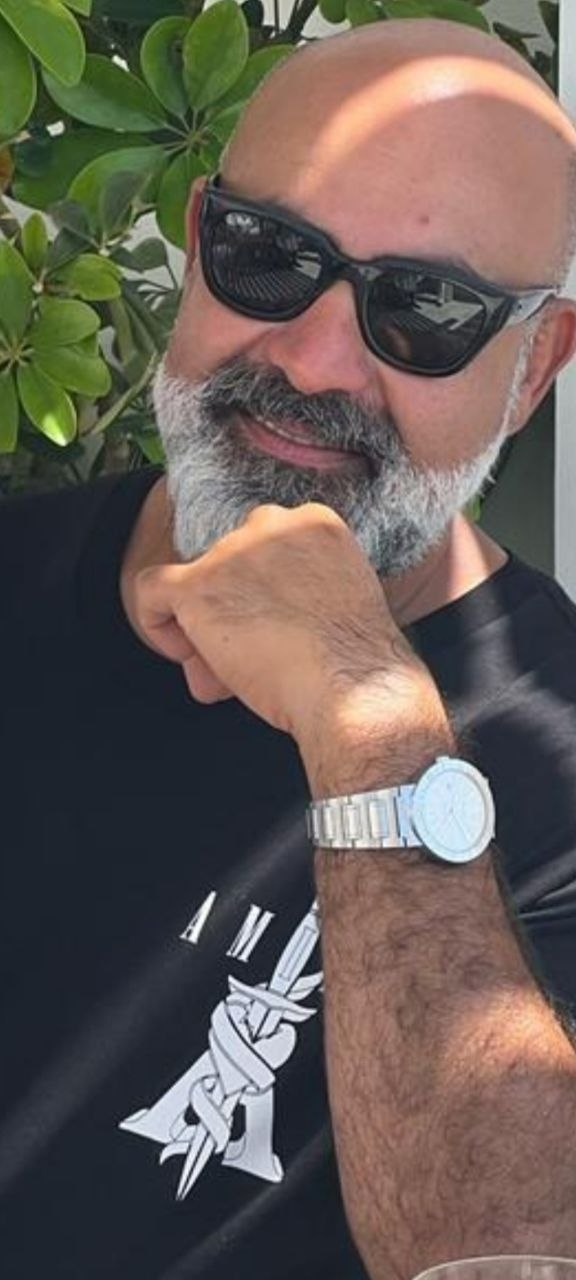
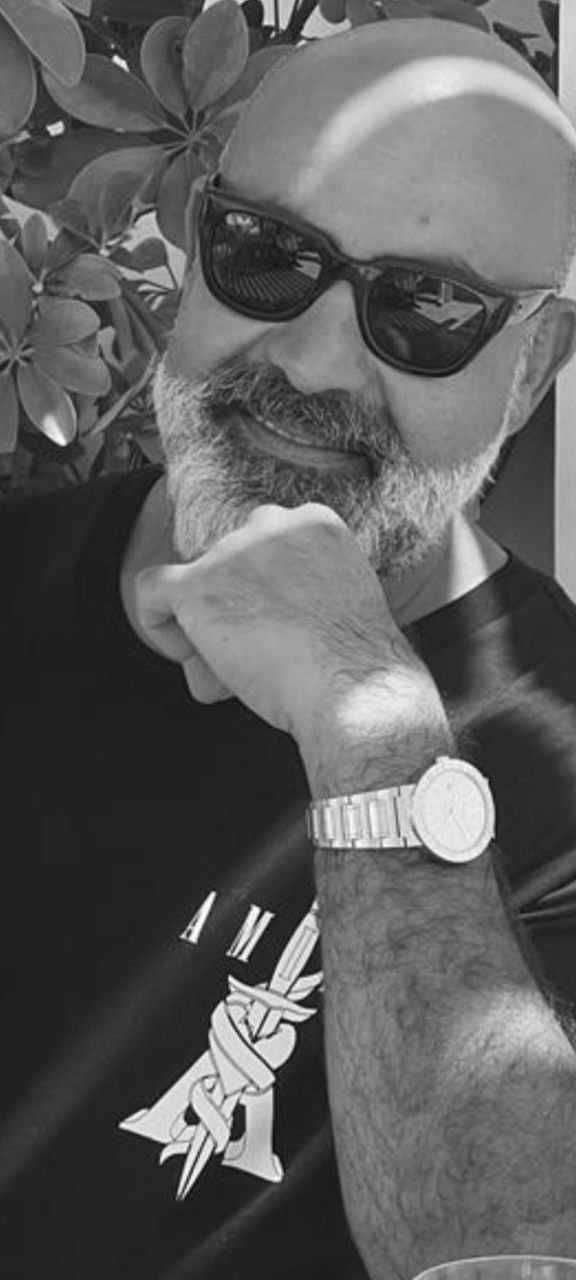
Fix hero photo cropping, swap book covers, update photo
- Add object-top to HeroCarousel and StickyPhotoStack so full head
  is visible on wide/short viewports instead of being cropped
- Replace Business Strategy Plan and 38 Letters covers with
  higher-resolution versions, update dimensions in books.ts
- Update parham shariat 3.JPG (re-exported by user)

diff --git a/src/lib/data/books.ts b/src/lib/data/books.ts
@@ -38,8 +38,8 @@ export const books: Book[] = [
     buyUrl: "https://a.co/d/00qpaf4W",
     coverImage: {
       src: "/books/business-strategy-plan.jpg",
-      width: 2400,
-      height: 2400,
+      width: 2000,
+      height: 3070,
     },
     accentColor: "#6B7F3A",
     isPlaceholder: false,
@@ -221,8 +221,8 @@ export const books: Book[] = [
     buyUrl: "https://a.co/d/06Ea10X4",
     coverImage: {
       src: "/books/38-letters-rockefeller.jpg",
-      width: 2400,
-      height: 2400,
+      width: 2000,
+      height: 3108,
     },
     accentColor: "#C81E1E",
     isPlaceholder: false,

diff --git a/src/components/HeroCarousel.tsx b/src/components/HeroCarousel.tsx
@@ -34,7 +34,7 @@ export default function HeroCarousel({ slides }: { slides: Slide[] }) {
           fill
           priority={i === 0}
           sizes="100vw"
-          className={`object-cover transition-opacity duration-1000 ${
+          className={`object-cover object-top transition-opacity duration-1000 ${
             i === active ? "opacity-100" : "opacity-0"
           }`}
         />

diff --git a/src/components/StickyPhotoStack.tsx b/src/components/StickyPhotoStack.tsx
@@ -85,7 +85,7 @@ export default function StickyPhotoStack({
               src={image.src}
               alt={image.alt}
               fill
-              className="object-cover"
+              className="object-cover object-top"
               sizes="100vw"
             />
           </div>
